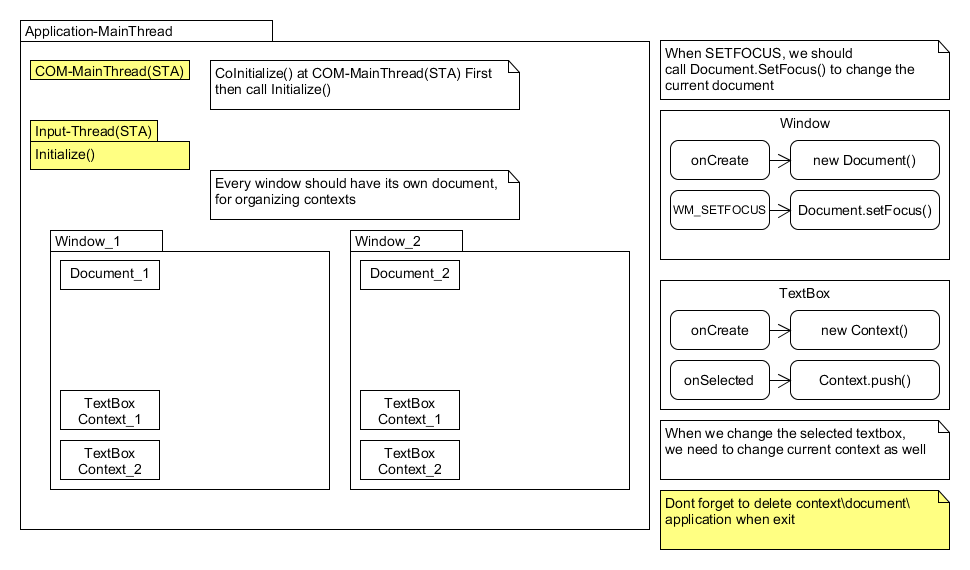
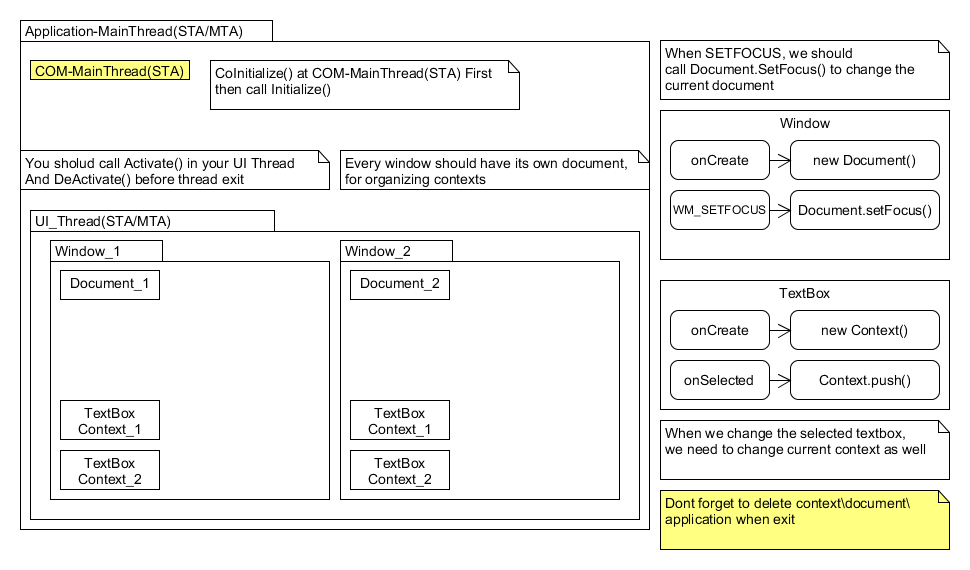
Corrent the wrong usage

diff --git a/AppTSF_TestWindow/AppTSF_TestWindow.cpp b/AppTSF_TestWindow/AppTSF_TestWindow.cpp
@@ -1,24 +1,16 @@
-// AppTSF_TestWindow.cpp : 定义应用程序的入口点。
-//
+#include <thread>
 
 #include "framework.h"
 #include "AppTSF_TestWindow.h"
-#include "../libtf/tf_application.h"
-#include "../libtf/Document.h"
-#include "../libtf/Context.h"
+#include "InputMethod.h"
 
 #define MAX_LOADSTRING 100
 
-// 全局变量:
-HINSTANCE hInst;                                // 当前实例
-WCHAR szTitle[MAX_LOADSTRING];                  // 标题栏文本
-WCHAR szWindowClass[MAX_LOADSTRING];            // 主窗口类名
-//TextServiceFramework
-Application* app;
-Document* doc;
-Context* context;
+HINSTANCE hInst;
+WCHAR szTitle[MAX_LOADSTRING];
+WCHAR szWindowClass[MAX_LOADSTRING];
+InputMethod* ime;
 
-// 此代码模块中包含的函数的前向声明:
 ATOM                MyRegisterClass(HINSTANCE hInstance);
 BOOL                InitInstance(HINSTANCE, int);
 LRESULT CALLBACK    WndProc(HWND, UINT, WPARAM, LPARAM);
@@ -32,14 +24,21 @@ int APIENTRY wWinMain(_In_ HINSTANCE hInstance,
 	UNREFERENCED_PARAMETER(hPrevInstance);
 	UNREFERENCED_PARAMETER(lpCmdLine);
 
-	// TODO: 在此处放置代码。
+	//COM MainThread
+	auto COMLoop = [] {
+		CoInitialize(NULL);
+		while (true) {}
+	};
+	std::thread COM_MainThread(COMLoop);
+	COM_MainThread.detach();
 
-	// 初始化全局字符串
+	ime = new InputMethod();
+	ime->Initialize();
+
 	LoadStringW(hInstance, IDS_APP_TITLE, szTitle, MAX_LOADSTRING);
 	LoadStringW(hInstance, IDC_APPTSFTESTWINDOW, szWindowClass, MAX_LOADSTRING);
 	MyRegisterClass(hInstance);
 
-	// 执行应用程序初始化:
 	if (!InitInstance(hInstance, nCmdShow))
 	{
 		return FALSE;
@@ -49,7 +48,7 @@ int APIENTRY wWinMain(_In_ HINSTANCE hInstance,
 
 	MSG msg;
 
-	// 主消息循环:
+	// Main Message Loop
 	while (GetMessage(&msg, nullptr, 0, 0))
 	{
 		if (!TranslateAccelerator(msg.hwnd, hAccelTable, &msg))
@@ -59,18 +58,9 @@ int APIENTRY wWinMain(_In_ HINSTANCE hInstance,
 		}
 	}
 
-	if (context) delete context;
-	if (doc) delete doc;
-	if (app) delete app;
-
 	return (int)msg.wParam;
 }
 
-//
-//  函数: MyRegisterClass()
-//
-//  目标: 注册窗口类。
-//
 ATOM MyRegisterClass(HINSTANCE hInstance)
 {
 	WNDCLASSEXW wcex;
@@ -92,19 +82,9 @@ ATOM MyRegisterClass(HINSTANCE hInstance)
 	return RegisterClassExW(&wcex);
 }
 
-//
-//   函数: InitInstance(HINSTANCE, int)
-//
-//   目标: 保存实例句柄并创建主窗口
-//
-//   注释:
-//
-//        在此函数中，我们在全局变量中保存实例句柄并
-//        创建和显示主程序窗口。
-//
 BOOL InitInstance(HINSTANCE hInstance, int nCmdShow)
 {
-	hInst = hInstance; // 将实例句柄存储在全局变量中
+	hInst = hInstance;
 
 	HWND hWnd = CreateWindowW(szWindowClass, szTitle, WS_OVERLAPPEDWINDOW,
 		CW_USEDEFAULT, 0, CW_USEDEFAULT, 0, nullptr, nullptr, hInstance, nullptr);
@@ -114,12 +94,7 @@ BOOL InitInstance(HINSTANCE hInstance, int nCmdShow)
 		return FALSE;
 	}
 
-	app = new Application();
-	HRESULT hr = app->Initialize();
-	if (FAILED(hr)) return FALSE;
-
-	doc = new Document(app);
-	context = new Context(doc, NULL); context->push();
+	CoInitializeEx(NULL, COINIT_MULTITHREADED);
 
 	ShowWindow(hWnd, nCmdShow);
 	UpdateWindow(hWnd);
@@ -127,16 +102,6 @@ BOOL InitInstance(HINSTANCE hInstance, int nCmdShow)
 	return TRUE;
 }
 
-//
-//  函数: WndProc(HWND, UINT, WPARAM, LPARAM)
-//
-//  目标: 处理主窗口的消息。
-//
-//  WM_COMMAND  - 处理应用程序菜单
-//  WM_PAINT    - 绘制主窗口
-//  WM_DESTROY  - 发送退出消息并返回
-//
-//
 LRESULT CALLBACK WndProc(HWND hWnd, UINT message, WPARAM wParam, LPARAM lParam)
 {
 	switch (message)
@@ -144,7 +109,6 @@ LRESULT CALLBACK WndProc(HWND hWnd, UINT message, WPARAM wParam, LPARAM lParam)
 	case WM_COMMAND:
 	{
 		int wmId = LOWORD(wParam);
-		// 分析菜单选择:
 		switch (wmId)
 		{
 		case IDM_ABOUT:
@@ -162,7 +126,7 @@ LRESULT CALLBACK WndProc(HWND hWnd, UINT message, WPARAM wParam, LPARAM lParam)
 	{
 		PAINTSTRUCT ps;
 		HDC hdc = BeginPaint(hWnd, &ps);
-		// TODO: 在此处添加使用 hdc 的任何绘图代码...
+		//paint here
 		EndPaint(hWnd, &ps);
 	}
 	break;
@@ -170,8 +134,15 @@ LRESULT CALLBACK WndProc(HWND hWnd, UINT message, WPARAM wParam, LPARAM lParam)
 		PostQuitMessage(0);
 		break;
 	case WM_SETFOCUS:
-		//set focus when focus changes
-		doc->setFocus();
+		ime->doc->setFocus();
+		break;
+	case WM_KEYDOWN:
+		if (ime->app->onKeyDown(wParam, lParam, TRUE))
+			ime->app->onKeyDown(wParam, lParam, FALSE);
+		break;
+	case WM_KEYUP:
+		if (ime->app->onKeyUp(wParam, lParam, TRUE))
+			ime->app->onKeyUp(wParam, lParam, FALSE);
 		break;
 	default:
 		return DefWindowProc(hWnd, message, wParam, lParam);
@@ -179,7 +150,6 @@ LRESULT CALLBACK WndProc(HWND hWnd, UINT message, WPARAM wParam, LPARAM lParam)
 	return 0;
 }
 
-// “关于”框的消息处理程序。
 INT_PTR CALLBACK About(HWND hDlg, UINT message, WPARAM wParam, LPARAM lParam)
 {
 	UNREFERENCED_PARAMETER(lParam);

diff --git a/libtf/tf_application.cpp b/libtf/tf_application.cpp
@@ -19,10 +19,40 @@ HRESULT _stdcall Application::Initialize()
 			CLSCTX_INPROC_SERVER,
 			IID_ITfThreadMgr,
 			(void**)&(Common::pThreadMgr));
+
 		if (SUCCEEDED(hr)) {
-			hr = Common::pThreadMgr->Activate(&(Common::client_id));
+			hr = Common::pThreadMgr->QueryInterface(IID_ITfKeystrokeMgr, (void**)&keyMgr);
 		}
 	}
-
 	return hr;
+}
+
+HRESULT _stdcall Application::Activate()
+{
+	return pThreadMgr->Activate(&(Common::client_id));
+}
+
+HRESULT _stdcall Application::Deactivate()
+{
+	return pThreadMgr->Deactivate();
+}
+
+BOOL _stdcall Application::onKeyDown(WPARAM wparam, LPARAM lparam, BOOL isTest)
+{
+	BOOL eaten = false;
+	if (isTest)
+		keyMgr->TestKeyDown(wparam, lparam, &eaten);
+	else
+		keyMgr->KeyDown(wparam, lparam, &eaten);
+	return eaten;
+}
+
+BOOL _stdcall Application::onKeyUp(WPARAM wparam, LPARAM lparam, BOOL isTest)
+{
+	BOOL eaten = false;
+	if (isTest)
+		keyMgr->TestKeyUp(wparam, lparam, &eaten);
+	else
+		keyMgr->KeyUp(wparam, lparam, &eaten);
+	return eaten;
 }

diff --git a/AppTSF_TestWindow/InputMethod.cpp b/AppTSF_TestWindow/InputMethod.cpp
@@ -1,0 +1,23 @@
+#include "InputMethod.h"
+
+InputMethod::InputMethod()
+{
+}
+
+InputMethod::~InputMethod()
+{
+	if (context) delete context;
+	if (doc) delete doc;
+	if (app) delete app;
+}
+
+VOID InputMethod::Initialize()
+{
+	app = new Application();
+	HRESULT hr = app->Initialize();
+	if (FAILED(hr))
+		throw "Failed to Initialize Application:" + hr;
+	app->Activate();
+	doc = new Document(app);
+	context = new Context(doc, NULL); context->push();
+}

diff --git a/libtf/tf_application.h b/libtf/tf_application.h
@@ -10,4 +10,8 @@ public:
 	TF_API ~Application();
 
 	TF_API virtual HRESULT _stdcall Initialize() override;
+	TF_API virtual HRESULT _stdcall Activate();
+	TF_API virtual HRESULT _stdcall Deactivate();
+	TF_API virtual BOOL _stdcall onKeyDown(WPARAM wparam, LPARAM lparam, BOOL isTest);
+	TF_API virtual BOOL _stdcall onKeyUp(WPARAM wparam, LPARAM lparam, BOOL isTest);
 };

diff --git a/AppTSF_TestWindow/InputMethod.h b/AppTSF_TestWindow/InputMethod.h
@@ -1,0 +1,19 @@
+#pragma once
+#include <thread>
+
+#include "../libtf/tf_application.h"
+#include "../libtf/Document.h"
+#include "../libtf/Context.h"
+class InputMethod
+{
+public:
+	InputMethod();
+	~InputMethod();
+
+	VOID Initialize();
+
+	//TextServiceFramework
+	Application* app;
+	Document* doc;
+	Context* context;
+};

diff --git a/libtf/tf_common.cpp b/libtf/tf_common.cpp
@@ -9,6 +9,7 @@ Common::~Common()
 		pThreadMgr = NULL;
 	}
 	client_id = 0;
+	CoUninitialize();
 }
 
 HRESULT _stdcall Common::Initialize()
